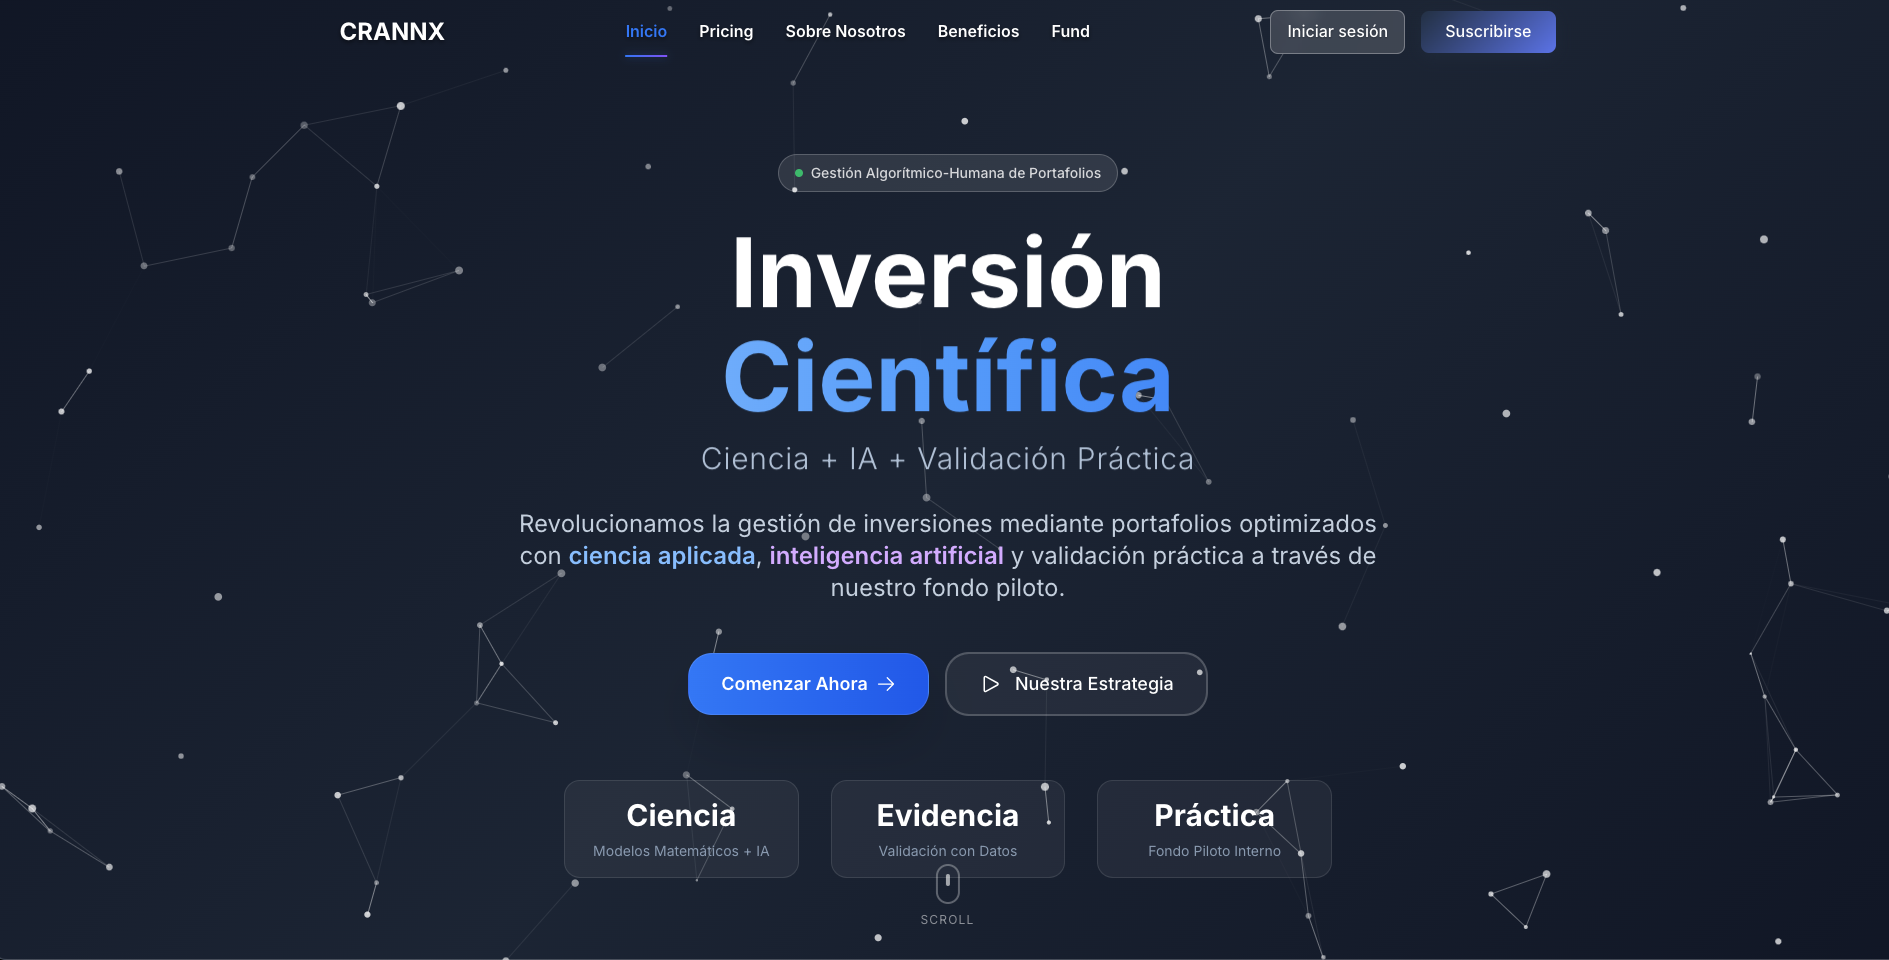
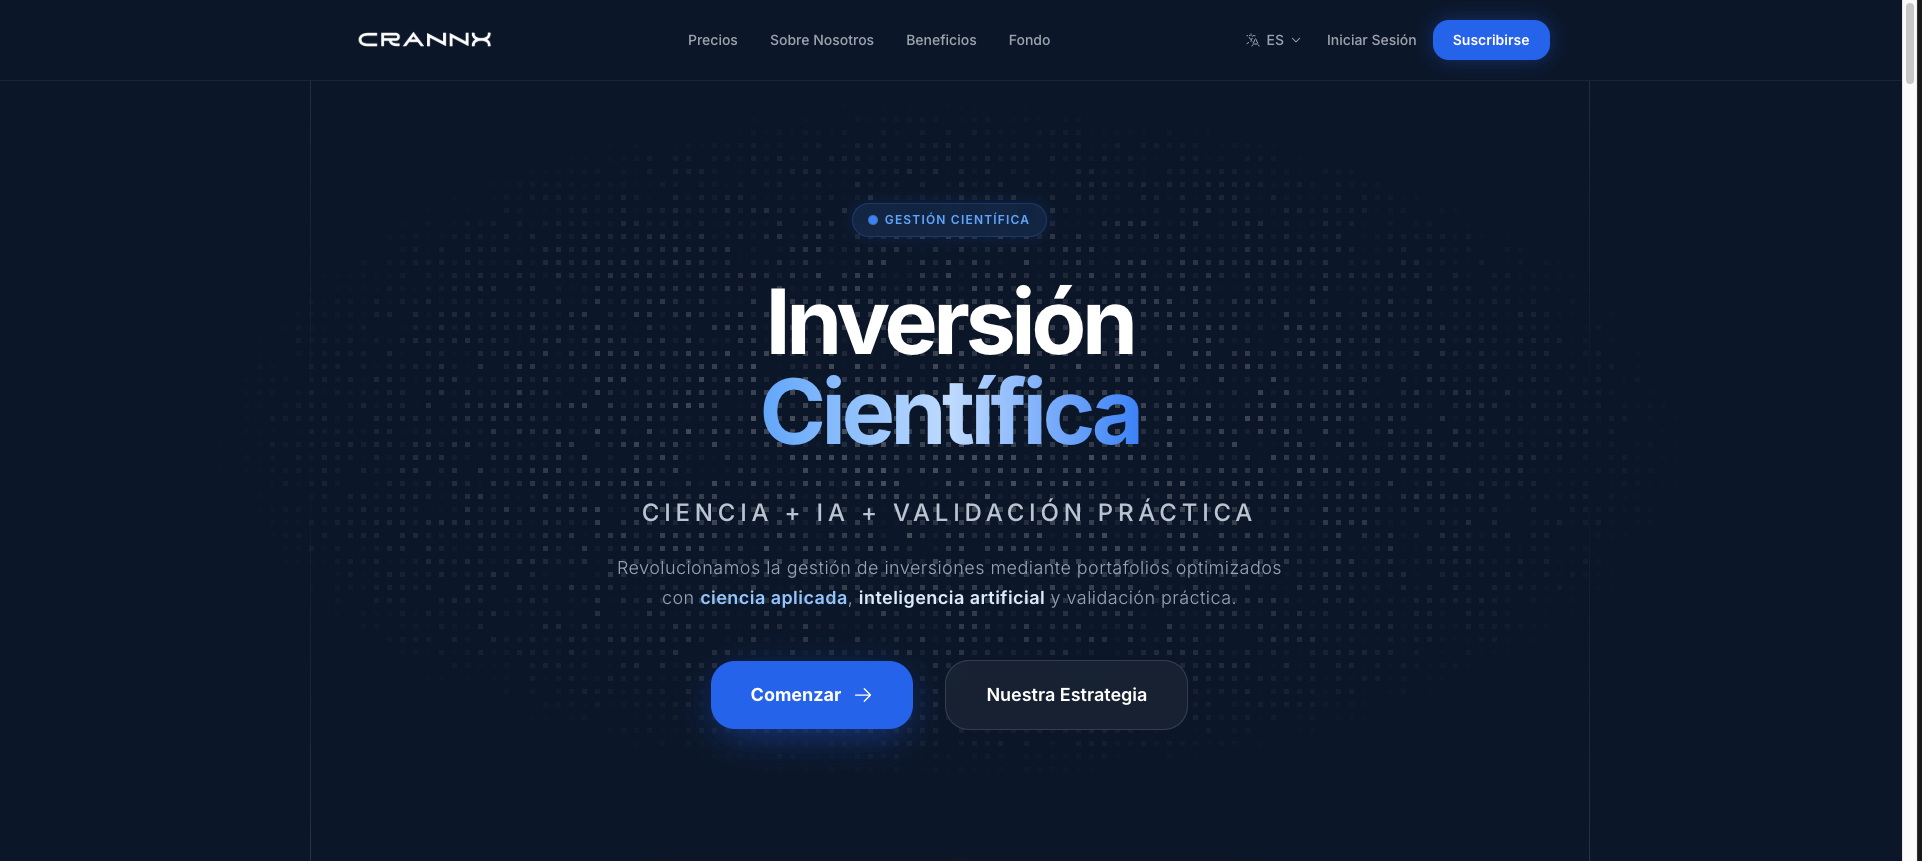
Update portfolio: reorder projects, add construction labels, new descriptions, add Didaxia projects

diff --git a/index.html b/index.html
@@ -348,12 +348,63 @@
             <div class="row g-0 align-items-stretch cards">
 
 
+              <!-- Crannx Advisors -->
+              <div class="col-12 col-md-6 cards__item grid-item animate-card-2">
+                <div class="cards__card d-flex flex-column">
+                  <div class="cards__descr">
+                    <h4 class="cards__title animate-in-up">Crannx Advisors</h4>
+                    <div class="cards__tags d-flex flex-wrap animate-in-up">
+                      <span class="rounded-tag tag-construction">En construcción</span>
+                      <span class="rounded-tag tag-outline">Nuxt.js</span>
+                      <span class="rounded-tag tag-outline">Firebase</span>
+                      <span class="rounded-tag tag-outline">TailwindCSS</span>
+                      <span class="rounded-tag tag-outline">Node.js</span>
+                      <span class="rounded-tag tag-outline">Stripe</span>
+                      <span class="rounded-tag tag-outline">Vercel</span>
+                    </div>
+                    <p class="small cards__text animate-in-up">
+                      Fintech de gestión patrimonial que busca democratizar el acceso a estrategias de inversión de
+                      nivel institucional (tipo hedge fund cuantitativo) para inversores individuales.
+                    </p>
+                  </div>
+                  <a href="https://crannx.com/" target="_blank" class="cards__image d-flex animate-in-up">
+                    <img src="img/trabajos/crannx.png" alt="Crannx Advisors">
+                  </a>
+                </div>
+              </div>
+
+              <!-- Ventari -->
+              <div class="col-12 col-md-6 cards__item grid-item animate-card-2">
+                <div class="cards__card d-flex flex-column">
+                  <div class="cards__descr">
+                    <h4 class="cards__title animate-in-up">Ventari</h4>
+                    <div class="cards__tags d-flex flex-wrap animate-in-up">
+                      <span class="rounded-tag tag-construction">En construcción</span>
+                      <span class="rounded-tag tag-outline">Next.js 15</span>
+                      <span class="rounded-tag tag-outline">React 19</span>
+                      <span class="rounded-tag tag-outline">FastAPI</span>
+                      <span class="rounded-tag tag-outline">LangGraph</span>
+                      <span class="rounded-tag tag-outline">OpenAI</span>
+                      <span class="rounded-tag tag-outline">Supabase</span>
+                    </div>
+                    <p class="small cards__text animate-in-up">
+                      Sistema multi-orquestacional para agentes digitales para e-commerce enfocados en operación,
+                      ventas, soporte, etc. Sistema RAG avanzado con capacidades de memoria infinita.
+                    </p>
+                  </div>
+                  <a href="javascript:void(0);" class="cards__image d-flex animate-in-up">
+                    <img src="img/trabajos/ventari.png" alt="Ventari">
+                  </a>
+                </div>
+              </div>
+
               <!-- Club Te Regalo Mi Auto -->
               <div class="col-12 col-md-6 cards__item grid-item animate-card-2">
                 <div class="cards__card d-flex flex-column">
                   <div class="cards__descr">
                     <h4 class="cards__title animate-in-up">Club Te Regalo Mi Auto</h4>
                     <div class="cards__tags d-flex flex-wrap animate-in-up">
+                      <span class="rounded-tag tag-construction">En construcción</span>
                       <span class="rounded-tag tag-outline">Nuxt.js</span>
                       <span class="rounded-tag tag-outline">Firebase</span>
                       <span class="rounded-tag tag-outline">TailwindCSS</span>
@@ -361,9 +412,6 @@
                       <span class="rounded-tag tag-outline">Stripe</span>
                       <span class="rounded-tag tag-outline">Vercel</span>
                       <span class="rounded-tag tag-outline">GitHub</span>
-
-
-
                     </div>
                     <p class="small cards__text animate-in-up">
                       Plataforma SaaS para promocionar sorteos y beneficios mediante suscripciones.
@@ -375,54 +423,6 @@
                   <a href="https://app.clubteregalomiauto.com/" target="_blank"
                     class="cards__image d-flex animate-in-up">
                     <img src="img/trabajos/www.clubteregalomiauto.com_.png" alt="Club Te Regalo Mi Auto">
-                  </a>
-                </div>
-              </div>
-
-              <!-- Ventari -->
-              <div class="col-12 col-md-6 cards__item grid-item animate-card-2">
-                <div class="cards__card d-flex flex-column">
-                  <div class="cards__descr">
-                    <h4 class="cards__title animate-in-up">Ventari</h4>
-                    <div class="cards__tags d-flex flex-wrap animate-in-up">
-                      <span class="rounded-tag tag-outline">Next.js 15</span>
-                      <span class="rounded-tag tag-outline">React 19</span>
-                      <span class="rounded-tag tag-outline">FastAPI</span>
-                      <span class="rounded-tag tag-outline">LangGraph</span>
-                      <span class="rounded-tag tag-outline">OpenAI</span>
-                      <span class="rounded-tag tag-outline">Supabase</span>
-                    </div>
-                    <p class="small cards__text animate-in-up">
-                      Plataforma SaaS de Orquestación de Agentes de IA. Sistema Operativo para empleados digitales
-                      inteligentes en WhatsApp/Instagram con memoria infinita y RAG.
-                    </p>
-                  </div>
-                  <a href="javascript:void(0);" class="cards__image d-flex animate-in-up">
-                    <img src="img/trabajos/ventari.png" alt="Ventari">
-                  </a>
-                </div>
-              </div>
-
-              <!-- Crannx Advisors -->
-              <div class="col-12 col-md-6 cards__item grid-item animate-card-2">
-                <div class="cards__card d-flex flex-column">
-                  <div class="cards__descr">
-                    <h4 class="cards__title animate-in-up">Crannx Advisors</h4>
-                    <div class="cards__tags d-flex flex-wrap animate-in-up">
-                      <span class="rounded-tag tag-outline">Nuxt.js</span>
-                      <span class="rounded-tag tag-outline">Firebase</span>
-                      <span class="rounded-tag tag-outline">TailwindCSS</span>
-                      <span class="rounded-tag tag-outline">Node.js</span>
-                      <span class="rounded-tag tag-outline">Stripe</span>
-                      <span class="rounded-tag tag-outline">Vercel</span>
-                    </div>
-                    <p class="small cards__text animate-in-up">
-                      SaaS de gestión de inversiones sistemática y repetible. Análisis cuantitativo, optimización de
-                      portafolios y gestión de riesgos automatizada.
-                    </p>
-                  </div>
-                  <a href="https://crannx.com/" target="_blank" class="cards__image d-flex animate-in-up">
-                    <img src="img/trabajos/crannx.png" alt="Crannx Advisors">
                   </a>
                 </div>
               </div>
@@ -601,11 +601,11 @@
                 </div>
               </div>
 
-              <!-- MomChic -->
+              <!-- Carola Miccono -->
               <div class="col-12 col-md-6 cards__item grid-item animate-card-2">
                 <div class="cards__card d-flex flex-column">
                   <div class="cards__descr">
-                    <h4 class="cards__title animate-in-up">MomChic</h4>
+                    <h4 class="cards__title animate-in-up">Carola Miccono</h4>
                     <div class="cards__tags d-flex flex-wrap animate-in-up">
                       <span class="rounded-tag tag-outline">Shopify</span>
                       <span class="rounded-tag tag-outline">Liquid</span>
@@ -620,27 +620,8 @@
                       y APIs para logística y pagos.
                     </p>
                   </div>
-                  <a href="https://momchic.cl/" target="_blank" class="cards__image d-flex animate-in-up">
-                    <img src="img/trabajos/momchic.cl_.png" alt="MomChic">
-                  </a>
-                </div>
-              </div>
-
-              <!-- AuraMay -->
-              <div class="col-12 col-md-6 cards__item grid-item animate-card-2">
-                <div class="cards__card d-flex flex-column">
-                  <div class="cards__descr">
-                    <h4 class="cards__title animate-in-up">AuraMay</h4>
-                    <div class="cards__tags d-flex flex-wrap animate-in-up">
-                      <span class="rounded-tag tag-outline">Shopify</span>
-                    </div>
-                    <p class="small cards__text animate-in-up">
-                      Tienda online con diseño estándar, secciones default, configuración de apps básica y API para
-                      pagos.
-                    </p>
-                  </div>
-                  <a href="https://auramay.cl/" target="_blank" class="cards__image d-flex animate-in-up">
-                    <img src="img/trabajos/www.auramay.cl.png" alt="AuraMay">
+                  <a href="https://carolamiccono.cl/" target="_blank" class="cards__image d-flex animate-in-up">
+                    <img src="img/trabajos/momchic.cl_.png" alt="Carola Miccono">
                   </a>
                 </div>
               </div>
@@ -748,8 +729,54 @@
                       y conversión.
                     </p>
                   </div>
-                  <a href="javascript:void(0);" class="cards__image d-flex animate-in-up">
+                  <a href="https://avfonoaudiologia.cl/" target="_blank" class="cards__image d-flex animate-in-up">
                     <img src="img/trabajos/avfonoaudiologia.png" alt="AV Fonoaudiología">
+                  </a>
+                </div>
+              </div>
+
+              <!-- Didaxia.cl -->
+              <div class="col-12 col-md-6 cards__item grid-item animate-card-2">
+                <div class="cards__card d-flex flex-column">
+                  <div class="cards__descr">
+                    <h4 class="cards__title animate-in-up">Didaxia.cl</h4>
+                    <div class="cards__tags d-flex flex-wrap animate-in-up">
+                      <span class="rounded-tag tag-outline">React</span>
+                      <span class="rounded-tag tag-outline">Vite</span>
+                      <span class="rounded-tag tag-outline">Tailwind CSS</span>
+                      <span class="rounded-tag tag-outline">JavaScript</span>
+                      <span class="rounded-tag tag-outline">Build Optimization</span>
+                    </div>
+                    <p class="small cards__text animate-in-up">
+                      Plataforma de consultoría y formación comercial. SPA javascript de alto rendimiento con secciones
+                      para mentoría, academia online y captación de leads.
+                    </p>
+                  </div>
+                  <a href="https://didaxia.cl/" target="_blank" class="cards__image d-flex animate-in-up">
+                    <img src="img/trabajos/didaxia.png" alt="Didaxia.cl">
+                  </a>
+                </div>
+              </div>
+
+              <!-- DidaxiaGourmet.cl -->
+              <div class="col-12 col-md-6 cards__item grid-item animate-card-2">
+                <div class="cards__card d-flex flex-column">
+                  <div class="cards__descr">
+                    <h4 class="cards__title animate-in-up">DidaxiaGourmet.cl</h4>
+                    <div class="cards__tags d-flex flex-wrap animate-in-up">
+                      <span class="rounded-tag tag-outline">React</span>
+                      <span class="rounded-tag tag-outline">Vite</span>
+                      <span class="rounded-tag tag-outline">Tailwind CSS</span>
+                      <span class="rounded-tag tag-outline">JavaScript</span>
+                      <span class="rounded-tag tag-outline">Build Optimization</span>
+                    </div>
+                    <p class="small cards__text animate-in-up">
+                      Sitio corporativo premium para intermediación de alimentos. Arquitectura estática optimizada para
+                      carga instantánea y conexión B2B internacional.
+                    </p>
+                  </div>
+                  <a href="https://didaxiagourmet.cl/" target="_blank" class="cards__image d-flex animate-in-up">
+                    <img src="img/trabajos/dgourmet.png" alt="DidaxiaGourmet.cl">
                   </a>
                 </div>
               </div>

diff --git a/css/main.css b/css/main.css
@@ -1118,6 +1118,13 @@ p.additional-text a {
   color: var(--t-medium);
 }
 
+.rounded-tag.tag-construction {
+  background-color: #ffd700;
+  color: #000000;
+  border: 1px solid #ffd700;
+  font-weight: 700;
+}
+
 .text-link {
   color: inherit;
   color: var(--t-medium);
